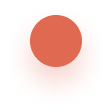
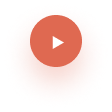
styled the home and service section

Changed region(s): [[0.4554, 0.3214, 0.5893, 0.4554]]

diff --git a/components/main.tsx b/components/main.tsx
@@ -4,39 +4,40 @@ import Image from 'next/image';
 const Main = () => {
     return (
         <React.Fragment>
-            <nav>
-                <Image src='/images/Logo.png' alt='logo' width='90' height='90' />
-                <ul>
+            <nav className='pt-6 pb-[3rem] md:pb-[5rem] flex justify-between mx-auto w-[96%] md:w-[90%]'>
+                <Image src='/images/Logo.png' alt='logo' width='90' height='90' className='h-auto w-auto' />
+                <ul className='hidden md:flex justify-center gap-4 lg:gap-12 items-center ml-[10%]'>
                     <li>Destinations</li>
                     <li>Hotels</li>
                     <li>Flights</li>
                     <li>Bookings</li>
                     <li>Login</li>
-                    <li>Sign Up</li>
-                    <li>EN <span><Image src='/images/down-arrow.png' alt='arrow' width='10' height='10' /></span></li>
+                    <li className='rounded-md border-2 border-primary-100 px-2 py-1 hover:bg-primary-100 hover:text-slate-100'>Sign Up</li>
+                    <li className='flex gap-1 items-center justify-center nowrap'>EN <button>
+                        <Image src='/images/down-arrow.png' alt='arrow' width='10' height='10' className='h-auto w-auto' />
+                    </button></li>
                 </ul>
             </nav>
 
-            <main>
-                <section>
-                    <p>Best Destinations around the world</p>
-                    <h1>Travel, enjoy and live a new and full life</h1>
-                    <p>Built Wicket longer admire do barton vanity itself do in it. Preferred to sportsmen it engrossed listening. Park gate sell they west hard for the.</p>
-                    <div>
-                        <button>Find out more</button>
-                        <div>
-                            <div>
-                                <Image src='/images/play.png' alt='play' width='60' height='60' />
-                                <Image src='/images/play-icon.png' alt='play' width='20' height='20' />
-                            </div>
-                            <span>Play Demo</span>
+            <main className='flex flex-col md:flex-row gap-6 mx-auto w-[94%] md:w-[90%]'>
+                <section className='flex flex-col gap-4'>
+                    <p className='text-secondary-100 font-bold uppercase'>Best Destinations around the world</p>
+                    <h1 className='text-primary-200 font-bold text-[3rem] md:text-[5rem] leading-none lg:w-[80%]'>Travel, enjoy and live a new and full life</h1>
+                    <p className='text-primary-300 font-normal lg:w-[80%]'>Built Wicket longer admire do barton vanity itself do in it. Preferred to sportsmen it engrossed listening. Park gate sell they west hard for the.</p>
+                    <div className='flex sm:gap-6 items-center flex-wrap'>
+                        <button className='rounded-md bg-secondary-200 px-6 py-3 text-slate-100'>Find out more</button>
+                        <div className='flex items-center'>
+                            <button className='pt-6'>
+                            <Image src='/images/play.png' alt='play' width='80' height='80' />
+                        </button>
+                        <span className='text-[#686D77] font-[500] ml-[-1rem]'>Play Demo</span>
                         </div>
                     </div>
                 </section>
-                <div>
-                    <Image src='/images/airplane.png' alt='airplane' width='150' height='150' />
-                    <Image src='/images/hero-img.png' alt='hero' width='500' height='500' priority />
-                    <Image src='/images/airplane.png' alt='airplane' width='100' height='100' />
+                <div className='relative'>
+                    <Image src='/images/airplane.png' alt='airplane' width='150' height='150' className='hidden lg:block absolute top-0 left-20' />
+                    <Image src='/images/hero-img.png' alt='hero' width='740' height='765' priority className='min-h-[35rem] min-w-full w-[70rem]' />
+                    <Image src='/images/airplane.png' alt='airplane' width='100' height='100' className='hidden lg:block absolute top-20 right-0' />
                 </div>
             </main>
         </React.Fragment>

diff --git a/components/services.tsx b/components/services.tsx
@@ -27,19 +27,19 @@ const serviceContent = [
 
 const Services = () => {
     return (
-        <section>
-            <p>CATEGORY</p>
-            <h2>We Offer Best Services</h2>
-            <Image src='/images/crosses.png' alt='crosses' width='100' height='100' />
-            <div>
+        <section className='pt-[5rem] relative mx-auto w-[96%] md:w-[90%]'>
+            <p className='p'>CATEGORY</p>
+            <h2 className='h2'>We Offer Best Services</h2>
+            <Image src='/images/crosses.png' alt='crosses' width='100' height='100' className='hidden sm:block absolute top-20 right-10' />
+            <div className='flex items-center justify-center gap-8 mt-[2rem] md:mt-[4rem] relative flex-wrap lg:flex-nowrap'>
                 {serviceContent.map((service, index) => (
-                    <div key={index}>
-                        <Image src={service.img} alt='services' width='80' height='80' />
-                        <h4>{service.head}</h4>
-                        <p>{service.content}</p>
+                    <div key={index} className='min-h-max h-[15rem] min-w-[full] w-[20rem] flex flex-col items-center text-center gap-2 rounded-3xl bg-[#fff] p-4 z-10 shadow-2xl hover:scale-110'>
+                        <Image src={service.img} alt='services' width='80' height='80' className='mb-4' />
+                        <h4 className='text-primary-500 font-semibold'>{service.head}</h4>
+                        <p className='text-primary-300'>{service.content}</p>
                     </div>
                 ))}
-                <Image src='/images/orange-rect.png' alt='rounded-rectangle' width='80' height='80' />
+                <Image src='/images/orange-rect.png' alt='rounded-rectangle' width='80' height='80' className='absolute bottom-0 left-30' />
             </div>
         </section>
     )

diff --git a/pages/index.tsx b/pages/index.tsx
@@ -14,12 +14,15 @@ export default function Home() {
     <>
       <Head>
         <title>Jadoo Travel Agency</title>
-        <meta name="description" content="Generated by create next app" />
+        <meta name="description" content="A Traveling Website" />
         <meta name="viewport" content="width=device-width, initial-scale=1" />
         <link rel="icon" href="/images/Jadoo.png" />
       </Head>
 
-      <React.Fragment>
+      <div className='box-border bg-scroll bg-no-repeat bg-right-top bg-[length:50rem_40rem]'
+            style={{
+                backgroundImage: 'url(/images/mainBG.png)'
+            }}>
         <Main />
         <Services />
         <Destination />
@@ -27,7 +30,7 @@ export default function Home() {
         <About />
         <Subscribe />
         <Footer />
-      </React.Fragment>
+      </div>
     </>
   )
 }

diff --git a/styles/globals.css b/styles/globals.css
@@ -1,3 +1,17 @@
 @tailwind base;
 @tailwind components;
 @tailwind utilities;
+
+@layer base {
+    li {
+        @apply text-primary-100 cursor-pointer font-medium;
+    }
+}
+
+.p {
+    @apply text-center text-primary-300 font-medium mb-2;
+}
+
+.h2 {
+    @apply text-center font-bold text-primary-400 text-2xl md:text-5xl;
+}

diff --git a/tailwind.config.js b/tailwind.config.js
@@ -6,6 +6,9 @@ module.exports = {
     "./components/**/*.{js,ts,jsx,tsx}",
   ],
   theme: {
+    container: {
+      center: true,
+    },
     extend: {
       colors: {
         primary: {
